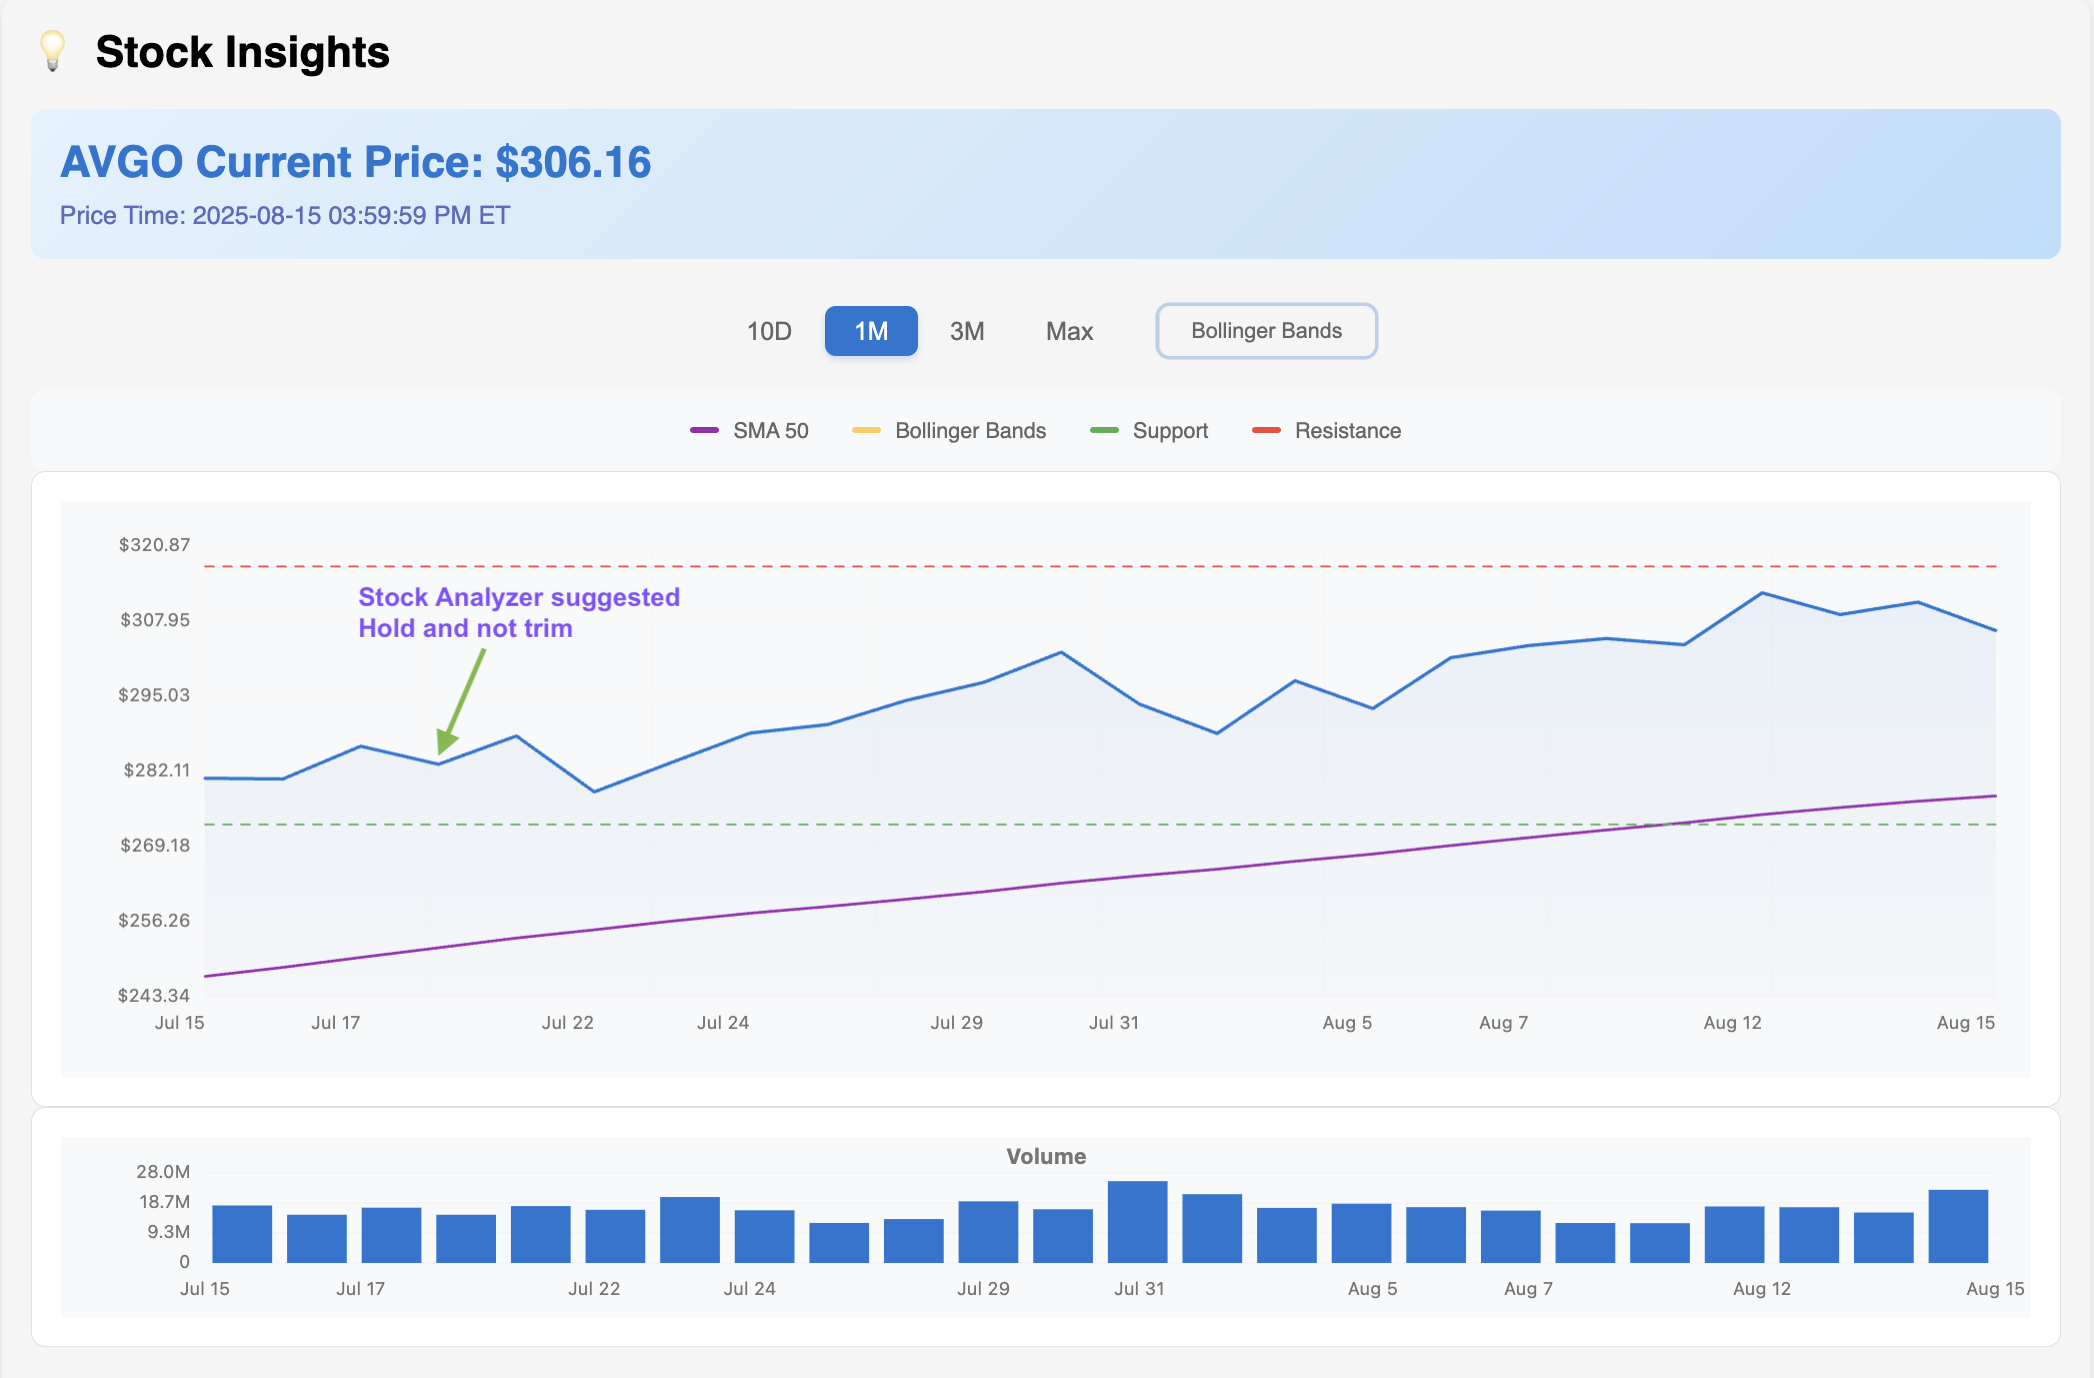
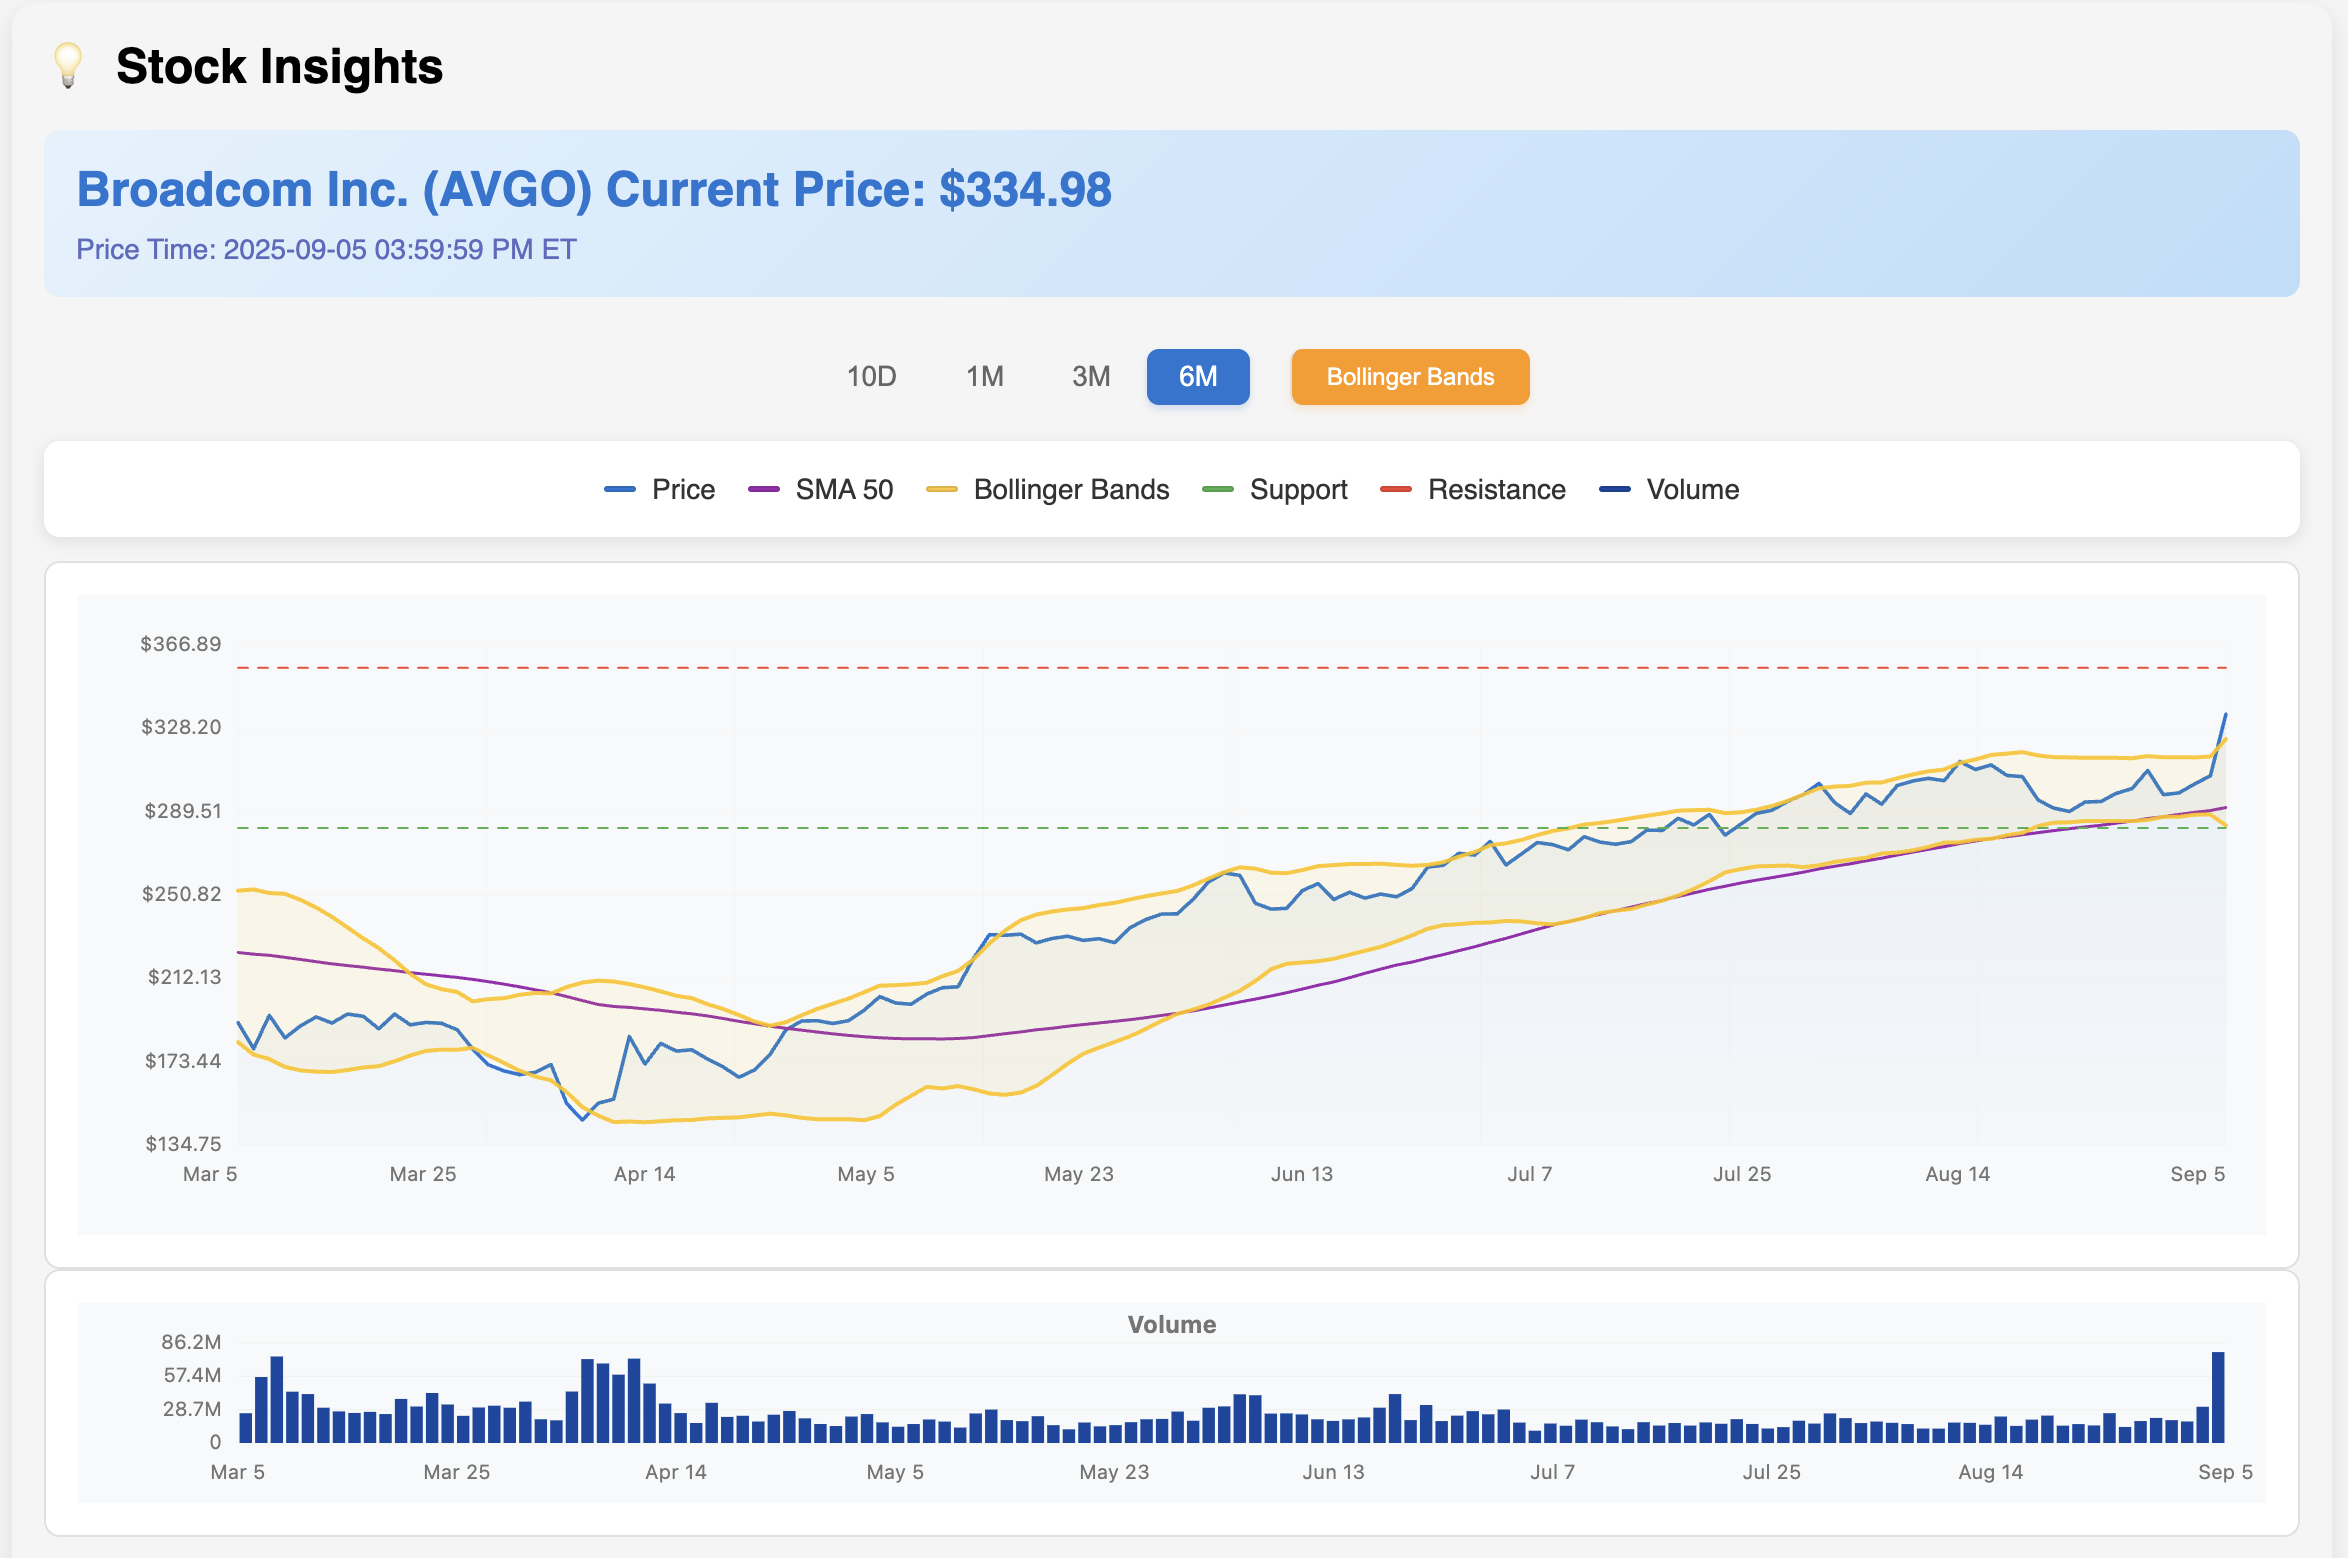
update the stock analyer agent

diff --git a/_posts/2025-07-14-Stock-Analyzer-AI-Agent.md b/_posts/2025-07-14-Stock-Analyzer-AI-Agent.md
@@ -7,8 +7,8 @@ image: /assets/ai_agent/pltr_stock_chart.png
 ---
 I enjoy trading stocks for long-term investing because it requires knowledge, analytical skills, and a long-term perspective. Over time, I have developed technical skills in analyzing stock charts to identify patterns, resistance and support levels, and to gauge whether the stock is becoming bearish or bullish. I also enjoy reading news and listening to tech podcasts to better understand the world around me and upcoming trends.
 
-## A stock app
-That said, I don't always have time to watch live stock charts. That makes me want to create a stock app where AI agents analyze the charts and relate them to market sentiment to give trading suggestions.  
+## A Stock AI Agent
+That said, I don't always have time to watch live stock charts. That makes me want to create a stock app where AI agents analyze the charts and relate them to market sentiment to give trading insights.  
 
 Additionally, in many ways, trading stocks is more of a psychological game than a numbers game. Therefore, using AI agents to recommend stock actions can be helpful during major pullbacks when everyone is scared or at market peaks when everyone is greedy. AI has a much calmer mind than we humans. :)
 
@@ -37,9 +37,9 @@ The word “agent” here is a general term. It can refer to an large language m
 * Conversely, the “Market Data Agent” retrieves stock data from the stock exchange.
 
 ### Technologies
-I use ChatGPT-4.1 as the large language model (LLM) and LangGraph as the agent framework. The app is built with Python and Angular. The web user interface is developed entirely through AI-assisted coding.
+I use ChatGPT-4.1 as the large language model (LLM) and LangGraph as the agent framework. The AI agent is built with Python and Angular. The web user interface is developed entirely through AI-assisted coding.
 
-The app operates as a REST service with endpoints to handle on-demand stock analysis requests. It also runs the "watchlist" job in the background to automatically generate insights for stocks configured by the user.
+The agent functions as a REST service with endpoints for on-demand stock analysis requests. It also runs the "watchlist" job in the background to automatically generate insightful alerts for the user.
 
 <!-- Additionally, it has the "Trade Monitoring" job running in the background by the orchestrator to oversee the stocks. Just like a real Wall Street trader, the job uses a scanner that constantly monitors the list of stocks and only drills down when the technicals indicate a potential move worth trading. -->
 
@@ -75,17 +75,17 @@ def build_state_graph(self):
     return graph
 ``` -->
 
-### The Stock Analyzer app
-Here is the Stock Analyzer, the app that offers professional stock technical insights and market sentiment analysis.
+### The Stock Analyzer AI Agent
+Here is the Stock Analyzer, the AI agent that offers professional stock technical insights and market sentiment analysis.
 
-The Stock Analyzer app is available at: [https://stock-analyzer.modularmachines.ai](https://stock-analyzer.modularmachines.ai/). It is access-controlled. If you'd like to try it, let me know, and I will create an account for you. You can reset your password once you log in.
+<!-- The Stock Analyzer app is available at: [https://stock-analyzer.modularmachines.ai](https://stock-analyzer.modularmachines.ai/). It is access-controlled. If you'd like to try it, let me know, and I will create an account for you. You can reset your password once you log in.
 
-Here are the screenshots of the product:
+Here are the screenshots of the product: -->
 
-<a href="/assets/ai_agent/ccj_chart.png" target="_blank">
-  <img src="/assets/ai_agent/ccj_chart.png" width="360" />
-<a href="/assets/ai_agent/ccj_analysis.png" target="_blank">
-  <img src="/assets/ai_agent/ccj_analysis.png" width="370" />
+<a href="/assets/ai_agent/avgo_stock_chart.png" target="_blank">
+  <img src="/assets/ai_agent/avgo_stock_chart.png" width="360" />
+<a href="/assets/ai_agent/avgo_analysis_9_06.png" target="_blank">
+  <img src="/assets/ai_agent/avgo_analysis_9_06.png" width="370" />
 
 ### Testimony
 
@@ -93,7 +93,7 @@ Here are the screenshots of the product:
 
 Two days before Palantir's earnings report, the Stock Analyzer's insights recommended holding the position and not trimming it. It also noted that news headlines reinforced the technical outlook and supported a bullish run. After the earnings report, PLTR stock surged by 22%, from $154 to $188.
 
-Then, on Friday, August 08, the Analyzer recommended that I trim slightly and take some profits because the stock was strongly overbought. One week later, the stock dropped 6% to $177. Ten days later, on August 19, PLTR sits at $157, 16% down from the price point where the Stock Analyzer suggested trimming.
+Then, on Friday, August 08, the Analyzer recommended that I trim slightly and take some profits because the stock was strongly overbought. One week later, the stock dropped 6% to $177. Ten days later, on August 19, PLTR sits at $157, 16% down from the price point where the Stock Analyzer recommended trimming.
 
 <a href="/assets/ai_agent/pltr_stock_chart.png" target="_blank">
   <img src="/assets/ai_agent/pltr_stock_chart.png" />
@@ -106,7 +106,7 @@ Then, on Friday, August 08, the Analyzer recommended that I trim slightly and ta
 
 #### Tesla (TSLA)
 
-On Aug 27, the Stock Analyzer app recommended that I modestly trim my Tesla stock position at $352 since the TSLA chart indicates uncertainty and lack of conviction in breaking through the resistance.
+On Aug 27, the Stock Analyzer Agent recommended that I modestly trim my Tesla stock position at $352 since the TSLA chart indicates uncertainty and lack of conviction in breaking through the resistance.
 
 This turned out to be a very helpful tip. The Tesla stock dropped more than $20 over the next two trading days.
 
@@ -117,3 +117,4 @@ This turned out to be a very helpful tip. The Tesla stock dropped more than $20 
   <img src="/assets/ai_agent/tsla_analysis_8_27.png" />
 
 
+Cheers!
